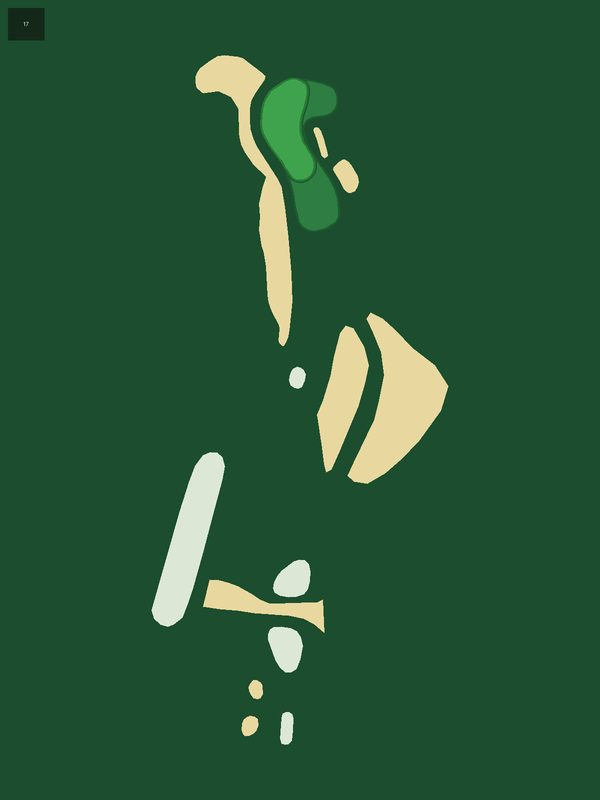
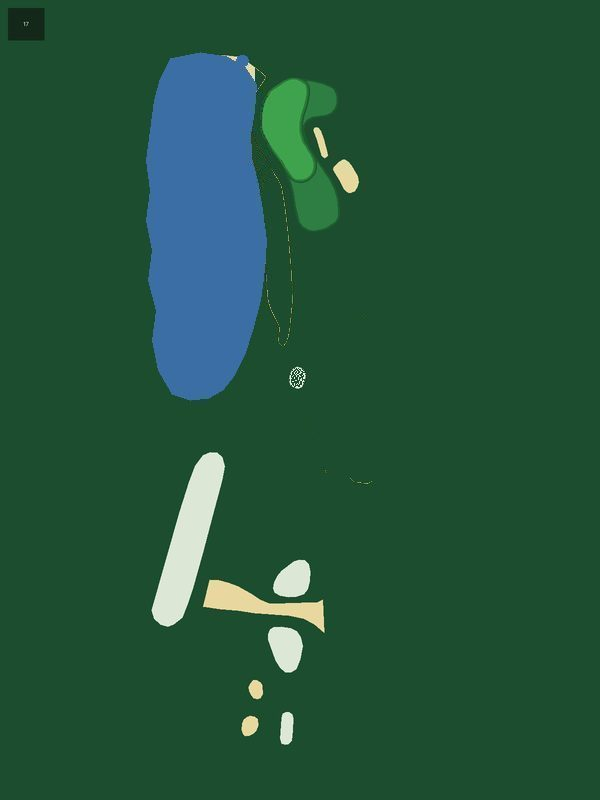
Harbour Town: fix phantom water (H1/H4/H5/H11/H18), H6 vertical flip, H3 corridor restore, H9 corridor removal, H17 lake add, re-register tee/pin all 18

Changed region(s): [[0.24, 0.0625, 0.51, 0.5], [0.51, 0.375, 0.75, 0.625], [0.48, 0.4375, 0.51, 0.5]]

diff --git a/app/lib/widgets/hole_map_manifest.dart b/app/lib/widgets/hole_map_manifest.dart
@@ -112,24 +112,24 @@ const holeMapManifest = <String, Map<int, HoleMapAsset>>{
     18: HoleMapAsset(par: 5, map: 'assets/hole_maps/east-lake-golf-club/18.jpg', mask: 'assets/hole_maps/east-lake-golf-club/18_mask.png', tee: Offset(0.454, 0.860), pin: Offset(0.462, 0.206), source: 'osm'),
   },
   'Harbour Town Golf Links': {
-    1: HoleMapAsset(par: 4, map: 'assets/hole_maps/harbour-town-golf-links/1.jpg', mask: 'assets/hole_maps/harbour-town-golf-links/1_mask.png', tee: Offset(0.553, 0.771), pin: Offset(0.447, 0.123), source: 'osm'),
-    2: HoleMapAsset(par: 5, map: 'assets/hole_maps/harbour-town-golf-links/2.jpg', mask: 'assets/hole_maps/harbour-town-golf-links/2_mask.png', tee: Offset(0.547, 0.927), pin: Offset(0.542, 0.132), source: 'osm'),
-    3: HoleMapAsset(par: 4, map: 'assets/hole_maps/harbour-town-golf-links/3.jpg', mask: 'assets/hole_maps/harbour-town-golf-links/3_mask.png', tee: Offset(0.469, 0.926), pin: Offset(0.471, 0.201), source: 'osm'),
-    4: HoleMapAsset(par: 3, map: 'assets/hole_maps/harbour-town-golf-links/4.jpg', mask: 'assets/hole_maps/harbour-town-golf-links/4_mask.png', tee: Offset(0.558, 0.916), pin: Offset(0.554, 0.246), source: 'osm'),
-    5: HoleMapAsset(par: 5, map: 'assets/hole_maps/harbour-town-golf-links/5.jpg', mask: 'assets/hole_maps/harbour-town-golf-links/5_mask.png', tee: Offset(0.448, 0.921), pin: Offset(0.448, 0.143), source: 'osm'),
-    6: HoleMapAsset(par: 4, map: 'assets/hole_maps/harbour-town-golf-links/6.jpg', mask: 'assets/hole_maps/harbour-town-golf-links/6_mask.png', tee: Offset(0.417, 0.884), pin: Offset(0.590, 0.220), source: 'osm'),
-    7: HoleMapAsset(par: 3, map: 'assets/hole_maps/harbour-town-golf-links/7.jpg', mask: 'assets/hole_maps/harbour-town-golf-links/7_mask.png', tee: Offset(0.434, 0.919), pin: Offset(0.429, 0.323), source: 'osm'),
-    8: HoleMapAsset(par: 4, map: 'assets/hole_maps/harbour-town-golf-links/8.jpg', mask: 'assets/hole_maps/harbour-town-golf-links/8_mask.png', tee: Offset(0.374, 0.923), pin: Offset(0.373, 0.100), source: 'osm'),
-    9: HoleMapAsset(par: 4, map: 'assets/hole_maps/harbour-town-golf-links/9.jpg', mask: 'assets/hole_maps/harbour-town-golf-links/9_mask.png', tee: Offset(0.482, 0.925), pin: Offset(0.480, 0.232), source: 'osm'),
-    10: HoleMapAsset(par: 4, map: 'assets/hole_maps/harbour-town-golf-links/10.jpg', mask: 'assets/hole_maps/harbour-town-golf-links/10_mask.png', tee: Offset(0.521, 0.901), pin: Offset(0.521, 0.232), source: 'osm'),
-    11: HoleMapAsset(par: 4, map: 'assets/hole_maps/harbour-town-golf-links/11.jpg', mask: 'assets/hole_maps/harbour-town-golf-links/11_mask.png', tee: Offset(0.427, 0.533), pin: Offset(0.427, 0.343), source: 'osm'),
-    12: HoleMapAsset(par: 4, map: 'assets/hole_maps/harbour-town-golf-links/12.jpg', mask: 'assets/hole_maps/harbour-town-golf-links/12_mask.png', tee: Offset(0.656, 0.922), pin: Offset(0.648, 0.226), source: 'osm'),
+    1: HoleMapAsset(par: 4, map: 'assets/hole_maps/harbour-town-golf-links/1.jpg', mask: 'assets/hole_maps/harbour-town-golf-links/1_mask.png', tee: Offset(0.513, 0.895), pin: Offset(0.447, 0.122), source: 'osm'),
+    2: HoleMapAsset(par: 5, map: 'assets/hole_maps/harbour-town-golf-links/2.jpg', mask: 'assets/hole_maps/harbour-town-golf-links/2_mask.png', tee: Offset(0.537, 0.891), pin: Offset(0.542, 0.132), source: 'osm'),
+    3: HoleMapAsset(par: 4, map: 'assets/hole_maps/harbour-town-golf-links/3.jpg', mask: 'assets/hole_maps/harbour-town-golf-links/3_mask.png', tee: Offset(0.522, 0.923), pin: Offset(0.458, 0.189), source: 'osm'),
+    4: HoleMapAsset(par: 3, map: 'assets/hole_maps/harbour-town-golf-links/4.jpg', mask: 'assets/hole_maps/harbour-town-golf-links/4_mask.png', tee: Offset(0.541, 0.818), pin: Offset(0.553, 0.245), source: 'osm'),
+    5: HoleMapAsset(par: 5, map: 'assets/hole_maps/harbour-town-golf-links/5.jpg', mask: 'assets/hole_maps/harbour-town-golf-links/5_mask.png', tee: Offset(0.464, 0.876), pin: Offset(0.448, 0.143), source: 'osm'),
+    6: HoleMapAsset(par: 4, map: 'assets/hole_maps/harbour-town-golf-links/6.jpg', mask: 'assets/hole_maps/harbour-town-golf-links/6_mask.png', tee: Offset(0.478, 0.863), pin: Offset(0.441, 0.171), source: 'osm'),
+    7: HoleMapAsset(par: 3, map: 'assets/hole_maps/harbour-town-golf-links/7.jpg', mask: 'assets/hole_maps/harbour-town-golf-links/7_mask.png', tee: Offset(0.400, 0.720), pin: Offset(0.429, 0.323), source: 'osm'),
+    8: HoleMapAsset(par: 4, map: 'assets/hole_maps/harbour-town-golf-links/8.jpg', mask: 'assets/hole_maps/harbour-town-golf-links/8_mask.png', tee: Offset(0.404, 0.835), pin: Offset(0.373, 0.099), source: 'osm'),
+    9: HoleMapAsset(par: 4, map: 'assets/hole_maps/harbour-town-golf-links/9.jpg', mask: 'assets/hole_maps/harbour-town-golf-links/9_mask.png', tee: Offset(0.487, 0.849), pin: Offset(0.470, 0.230), source: 'osm'),
+    10: HoleMapAsset(par: 4, map: 'assets/hole_maps/harbour-town-golf-links/10.jpg', mask: 'assets/hole_maps/harbour-town-golf-links/10_mask.png', tee: Offset(0.528, 0.853), pin: Offset(0.521, 0.231), source: 'osm'),
+    11: HoleMapAsset(par: 4, map: 'assets/hole_maps/harbour-town-golf-links/11.jpg', mask: 'assets/hole_maps/harbour-town-golf-links/11_mask.png', tee: Offset(0.325, 0.901), pin: Offset(0.325, 0.344), source: 'osm'),
+    12: HoleMapAsset(par: 4, map: 'assets/hole_maps/harbour-town-golf-links/12.jpg', mask: 'assets/hole_maps/harbour-town-golf-links/12_mask.png', tee: Offset(0.641, 0.859), pin: Offset(0.647, 0.225), source: 'osm'),
     13: HoleMapAsset(par: 4, map: 'assets/hole_maps/harbour-town-golf-links/13.jpg', mask: 'assets/hole_maps/harbour-town-golf-links/13_mask.png', tee: Offset(0.438, 0.920), pin: Offset(0.441, 0.169), source: 'osm'),
     14: HoleMapAsset(par: 3, map: 'assets/hole_maps/harbour-town-golf-links/14.jpg', mask: 'assets/hole_maps/harbour-town-golf-links/14_mask.png', tee: Offset(0.546, 0.822), pin: Offset(0.548, 0.291), source: 'osm'),
     15: HoleMapAsset(par: 5, map: 'assets/hole_maps/harbour-town-golf-links/15.jpg', mask: 'assets/hole_maps/harbour-town-golf-links/15_mask.png', tee: Offset(0.459, 0.925), pin: Offset(0.459, 0.138), source: 'osm'),
     16: HoleMapAsset(par: 4, map: 'assets/hole_maps/harbour-town-golf-links/16.jpg', mask: 'assets/hole_maps/harbour-town-golf-links/16_mask.png', tee: Offset(0.468, 0.922), pin: Offset(0.469, 0.160), source: 'osm'),
-    17: HoleMapAsset(par: 3, map: 'assets/hole_maps/harbour-town-golf-links/17.jpg', mask: 'assets/hole_maps/harbour-town-golf-links/17_mask.png', tee: Offset(0.476, 0.922), pin: Offset(0.480, 0.159), source: 'osm'),
-    18: HoleMapAsset(par: 4, map: 'assets/hole_maps/harbour-town-golf-links/18.jpg', mask: 'assets/hole_maps/harbour-town-golf-links/18_mask.png', tee: Offset(0.471, 0.636), pin: Offset(0.473, 0.144), source: 'osm'),
+    17: HoleMapAsset(par: 3, map: 'assets/hole_maps/harbour-town-golf-links/17.jpg', mask: 'assets/hole_maps/harbour-town-golf-links/17_mask.png', tee: Offset(0.477, 0.910), pin: Offset(0.479, 0.159), source: 'osm'),
+    18: HoleMapAsset(par: 4, map: 'assets/hole_maps/harbour-town-golf-links/18.jpg', mask: 'assets/hole_maps/harbour-town-golf-links/18_mask.png', tee: Offset(0.467, 0.912), pin: Offset(0.513, 0.150), source: 'osm'),
   },
   'Kapalua Plantation Course': {
     1: HoleMapAsset(par: 4, map: 'assets/hole_maps/kapalua-plantation-course/1.jpg', mask: 'assets/hole_maps/kapalua-plantation-course/1_mask.png', tee: Offset(0.556, 0.900), pin: Offset(0.560, 0.099), source: 'osm'),
